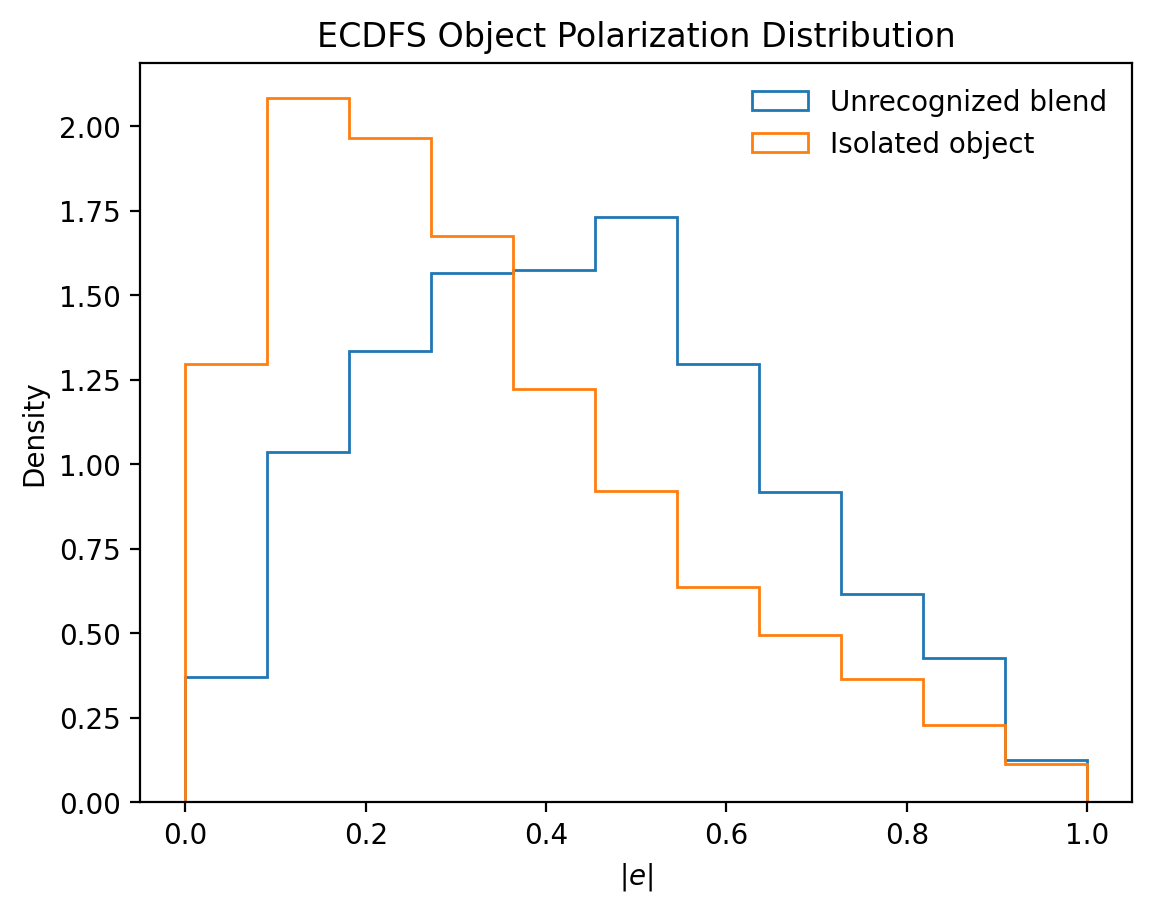
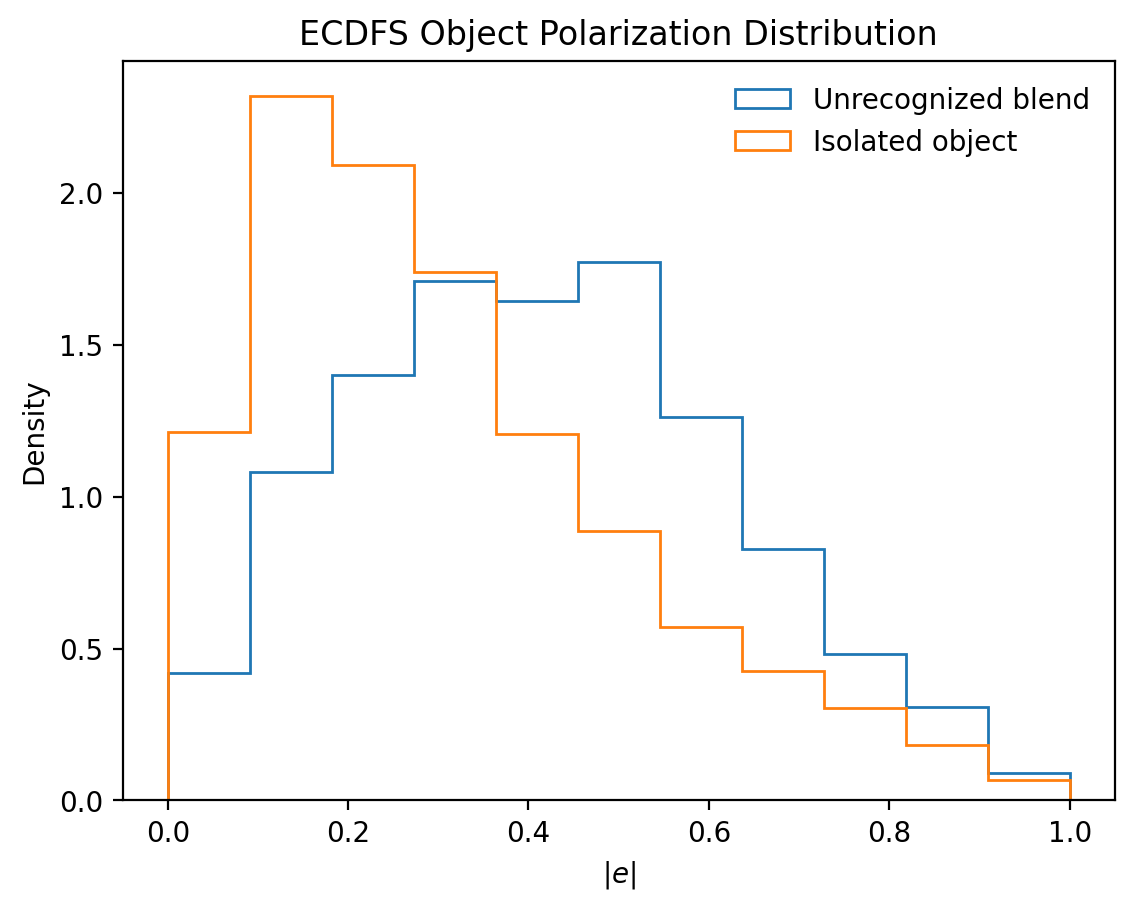
star-galaxy clarification.

diff --git a/index.rst b/index.rst
@@ -147,7 +147,7 @@ In comparison to the Roman-Rubin simulations by `Troxel et al. <https://arxiv.or
 Shape Parameters
 -----------------
 Accurate shape measurements is necessary for weak lensing studies and it is expected that unrecognized blends will impact shear estimates.
-The inverse question, if certain shapes are more likely to be unrecognized blends is shown in :numref:`unrecpol`.
+The inverse question, if certain shapes are more likely to be unrecognized blends is shown in :numref:`unrecpol` restricting to galaxies only.
 
 .. It is possible that there would be a bias due to the orientation of the pixel grid which we investigate below.
 
@@ -156,7 +156,7 @@ We look at the second moment, :math:`Q_{ij}`, of extended objects which we combi
 .. math::
    e_1 = \frac{Q_{xx} - Q_{yy}}{Q_{xx} + Q_{yy}} \;\;\; e_2 = \frac{2Q_{xy}}{Q_{xx} + Q_{yy}}.
 
-We also study the distribution of :math:`|e| = \sqrt{e_1^2 + e_2^2}` for isolated and unrecognized blends in :numref:`eabs`.
+We also study the distribution of :math:`|e| = \sqrt{e_1^2 + e_2^2}` for isolated and unrecognized blends in :numref:`eabs`, similarly restricting to galaxies only.
 
 .. _unrecpol:
 .. figure:: ./_static/unrec_blend_pol.png
